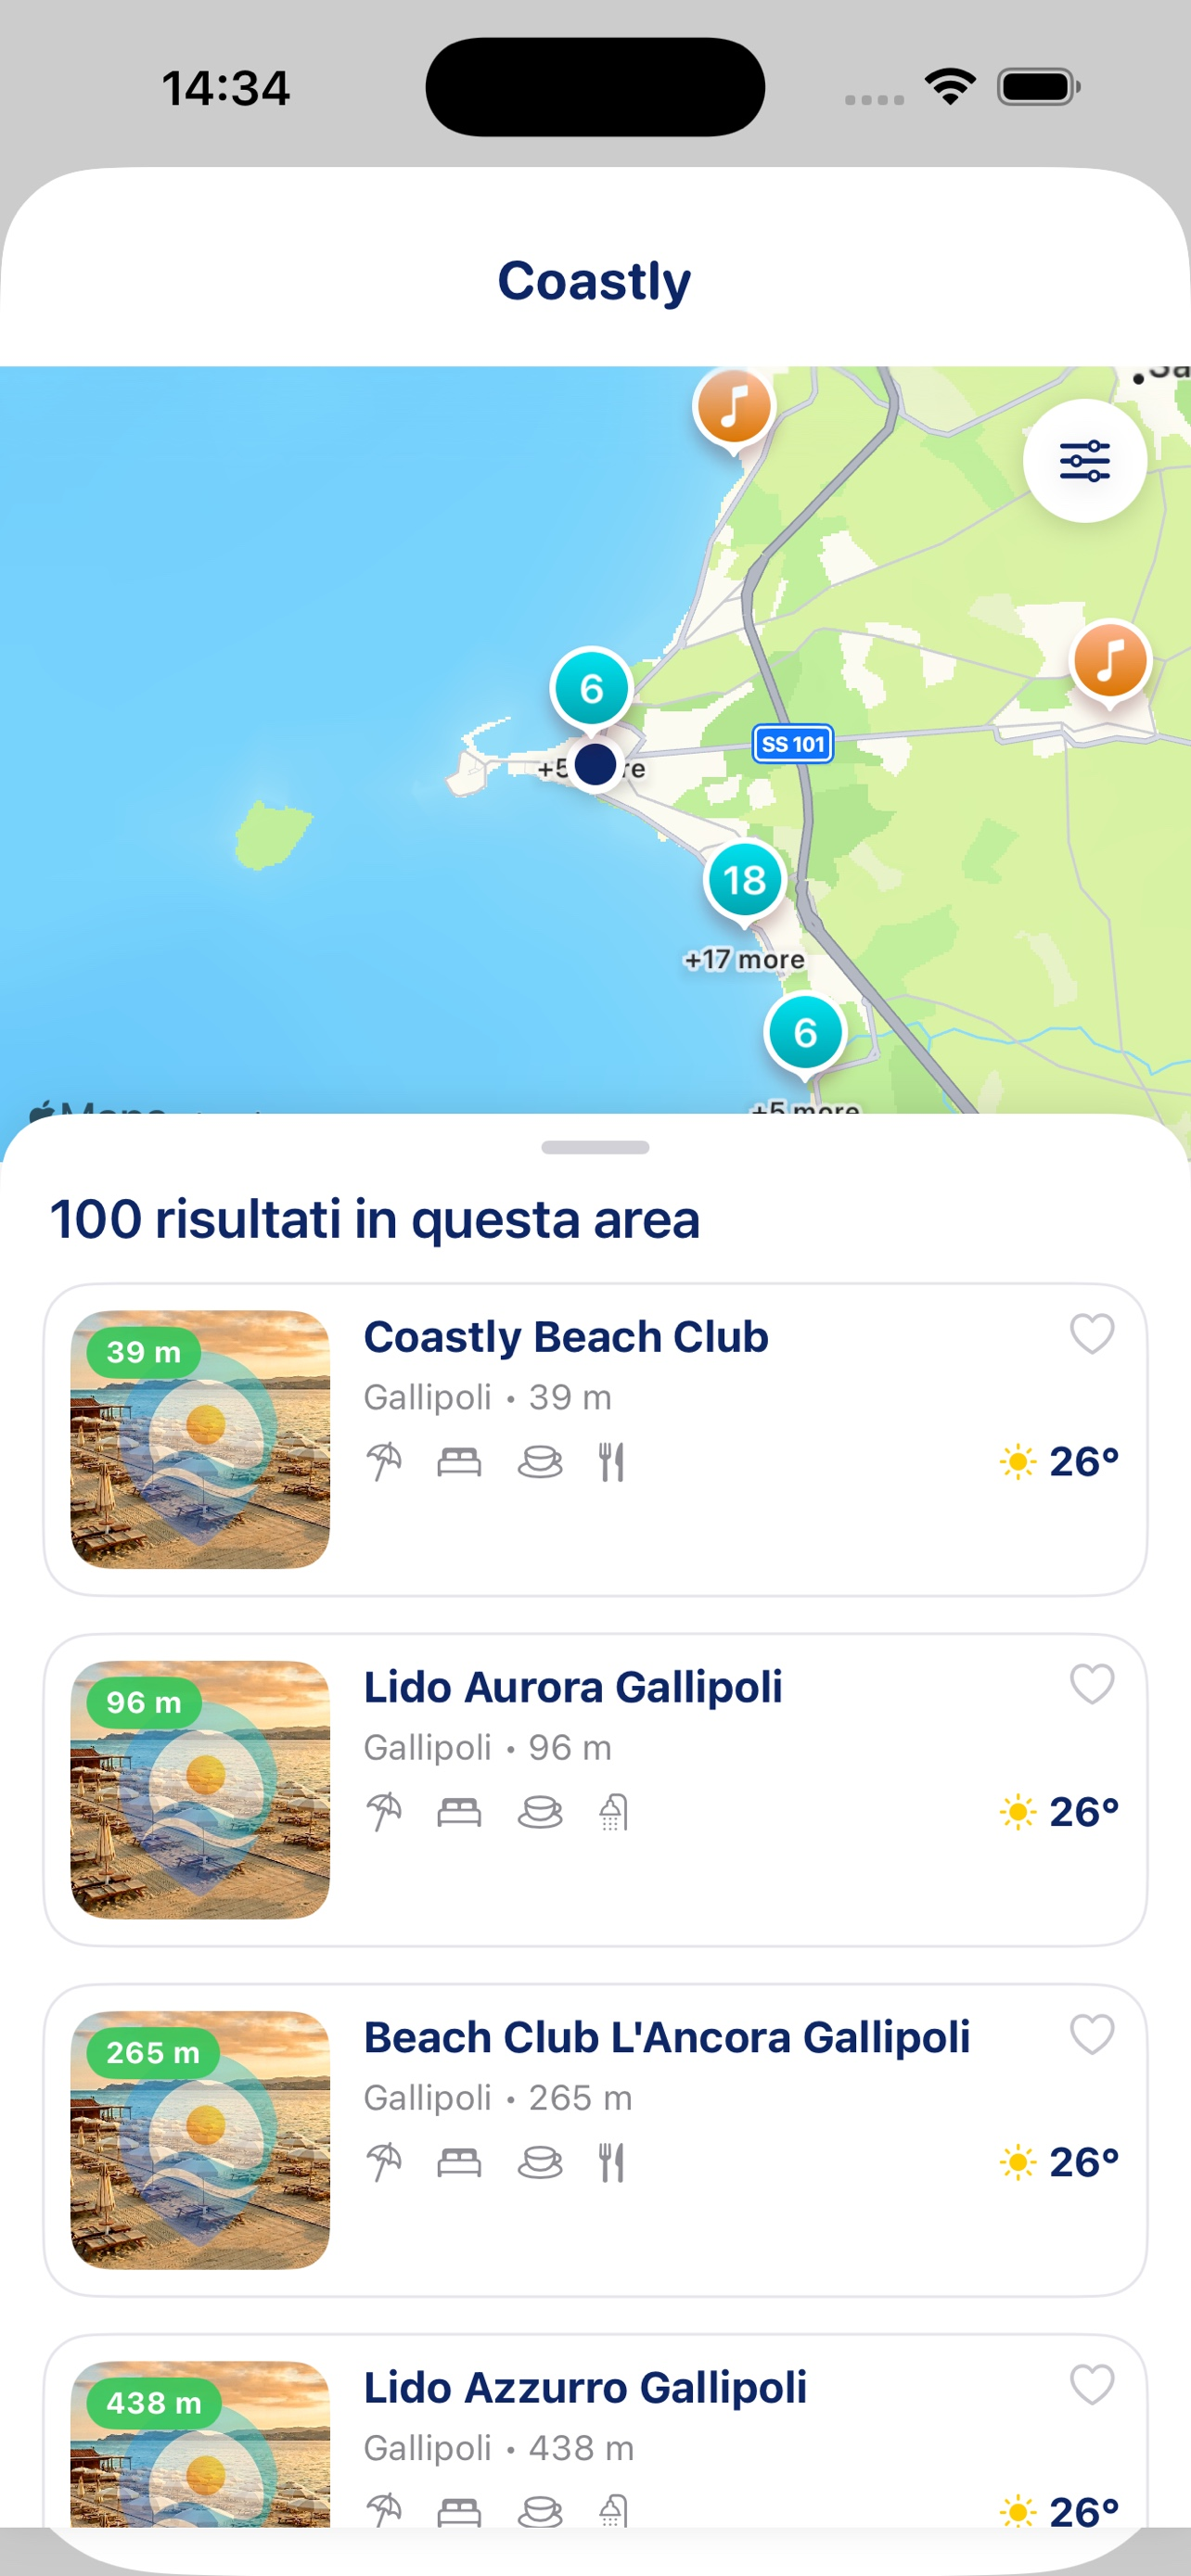
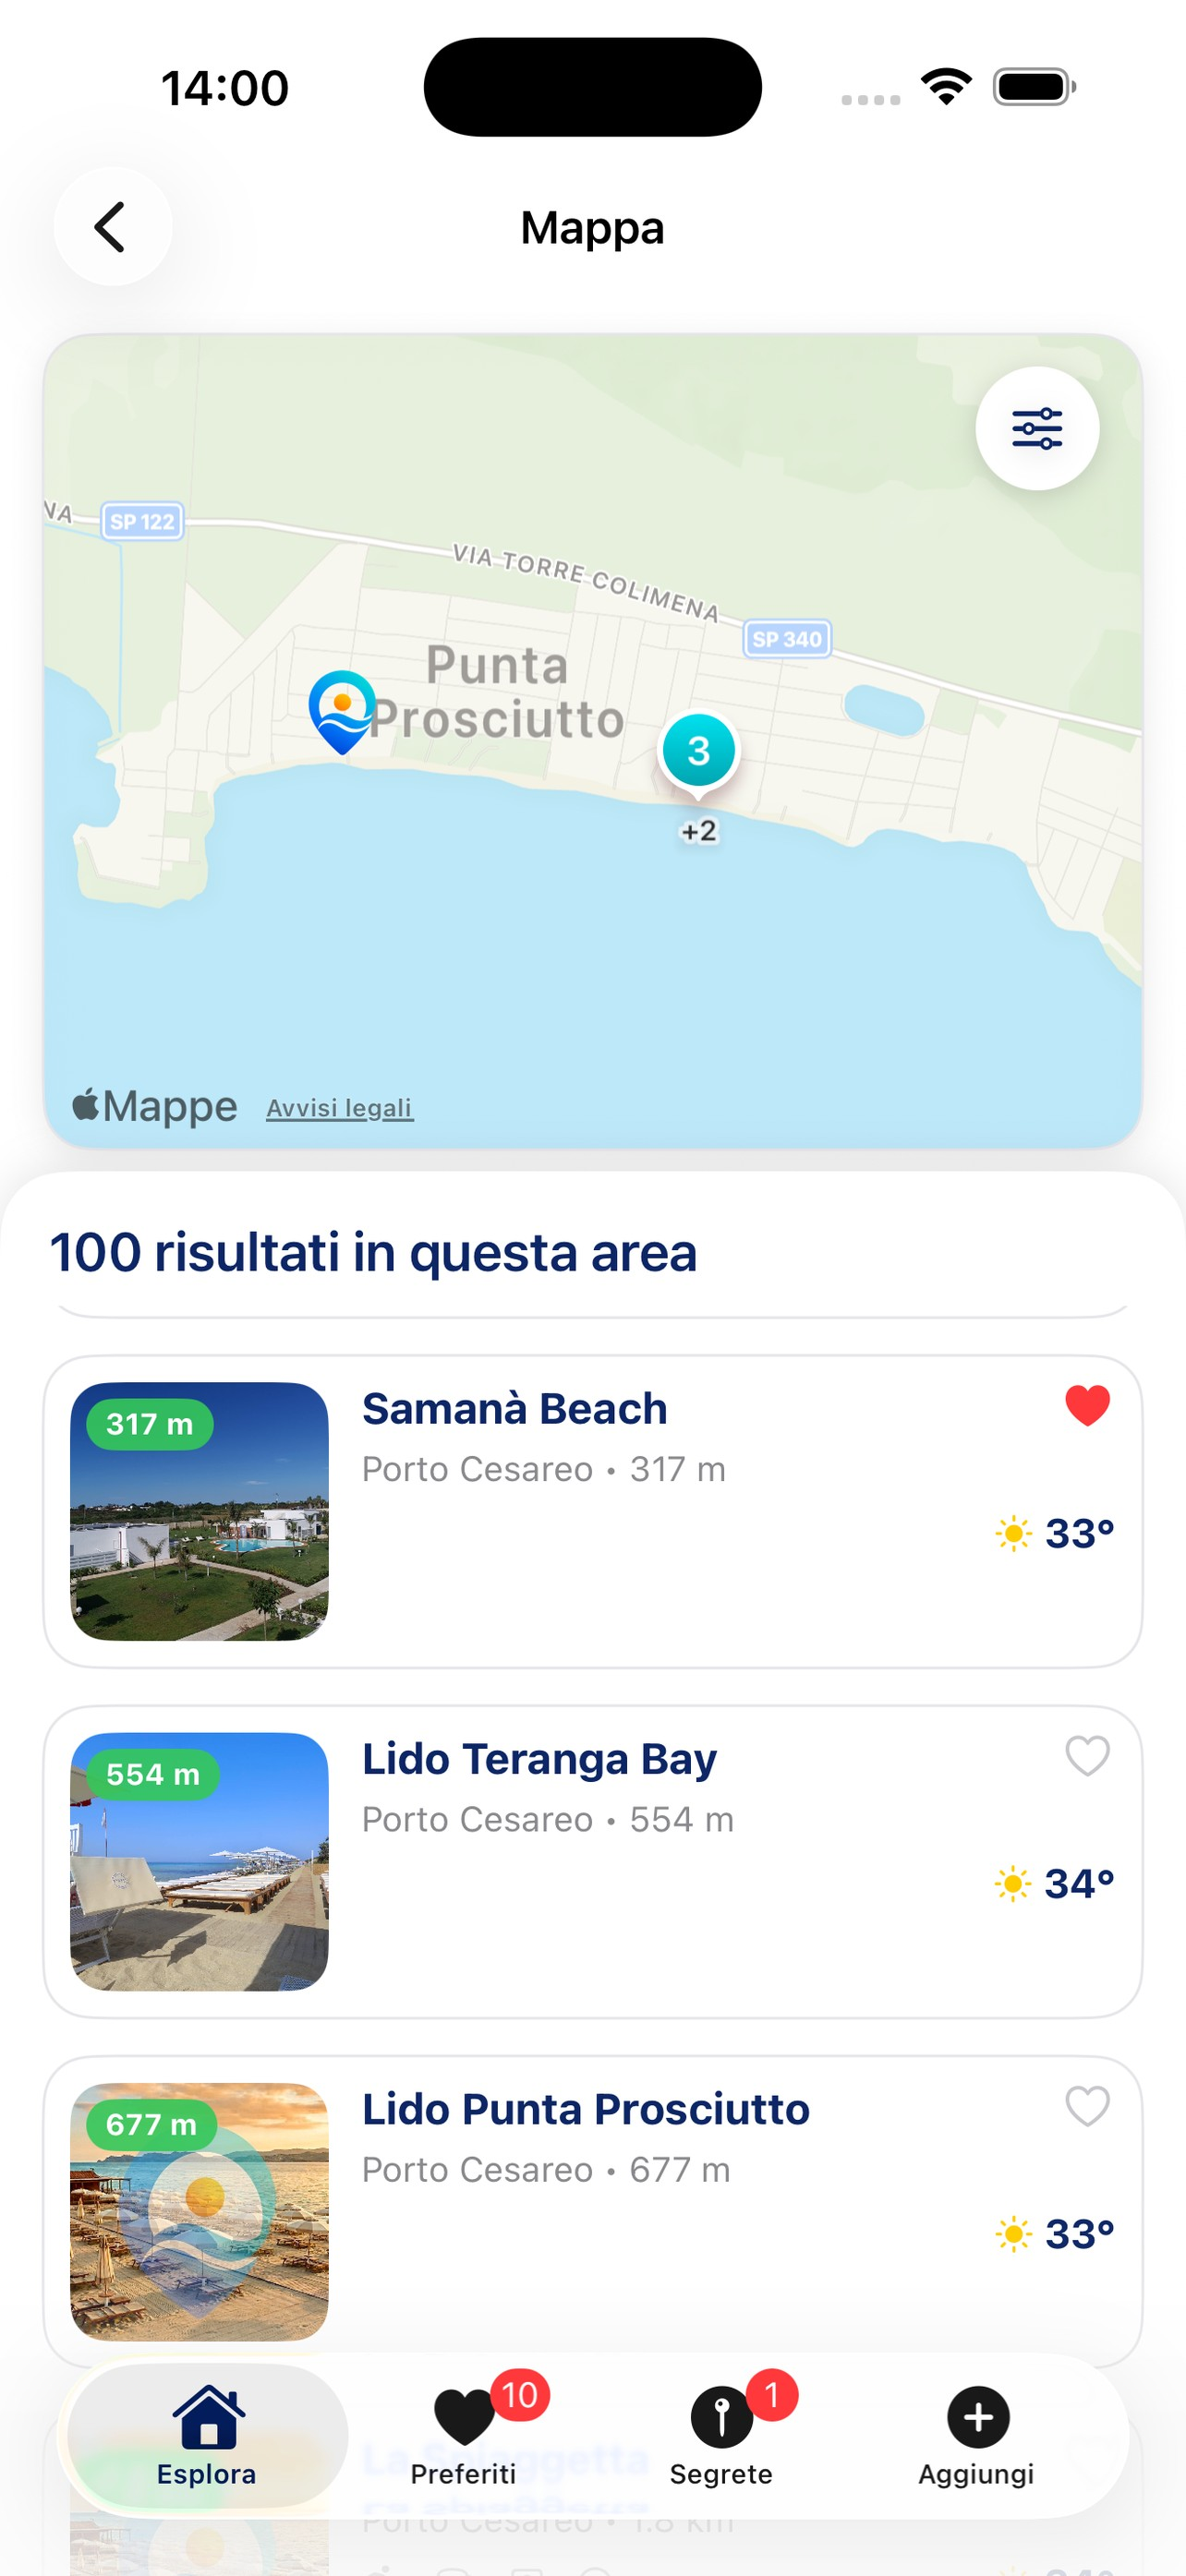
Aggiorna screenshot mappa con vista Porto Cesareo

diff --git a/index.html b/index.html
@@ -1096,7 +1096,7 @@
             <img src="img/preview-home.jpg?v=2" alt="Schermata home Coastly">
           </figure>
           <figure class="iphone-air wow fadeInUp" data-wow-delay="300ms" style="margin:0 auto">
-            <img src="img/preview-mappa.jpg?v=2" alt="Schermata mappa Coastly">
+            <img src="img/preview-mappa.jpg?v=3" alt="Schermata mappa Coastly">
           </figure>
           <figure class="iphone-air wow fadeInUp" data-wow-delay="300ms" style="margin:0 auto">
             <img src="img/preview-mare.jpg?v=2" alt="Schermata mare in tempo reale Coastly">